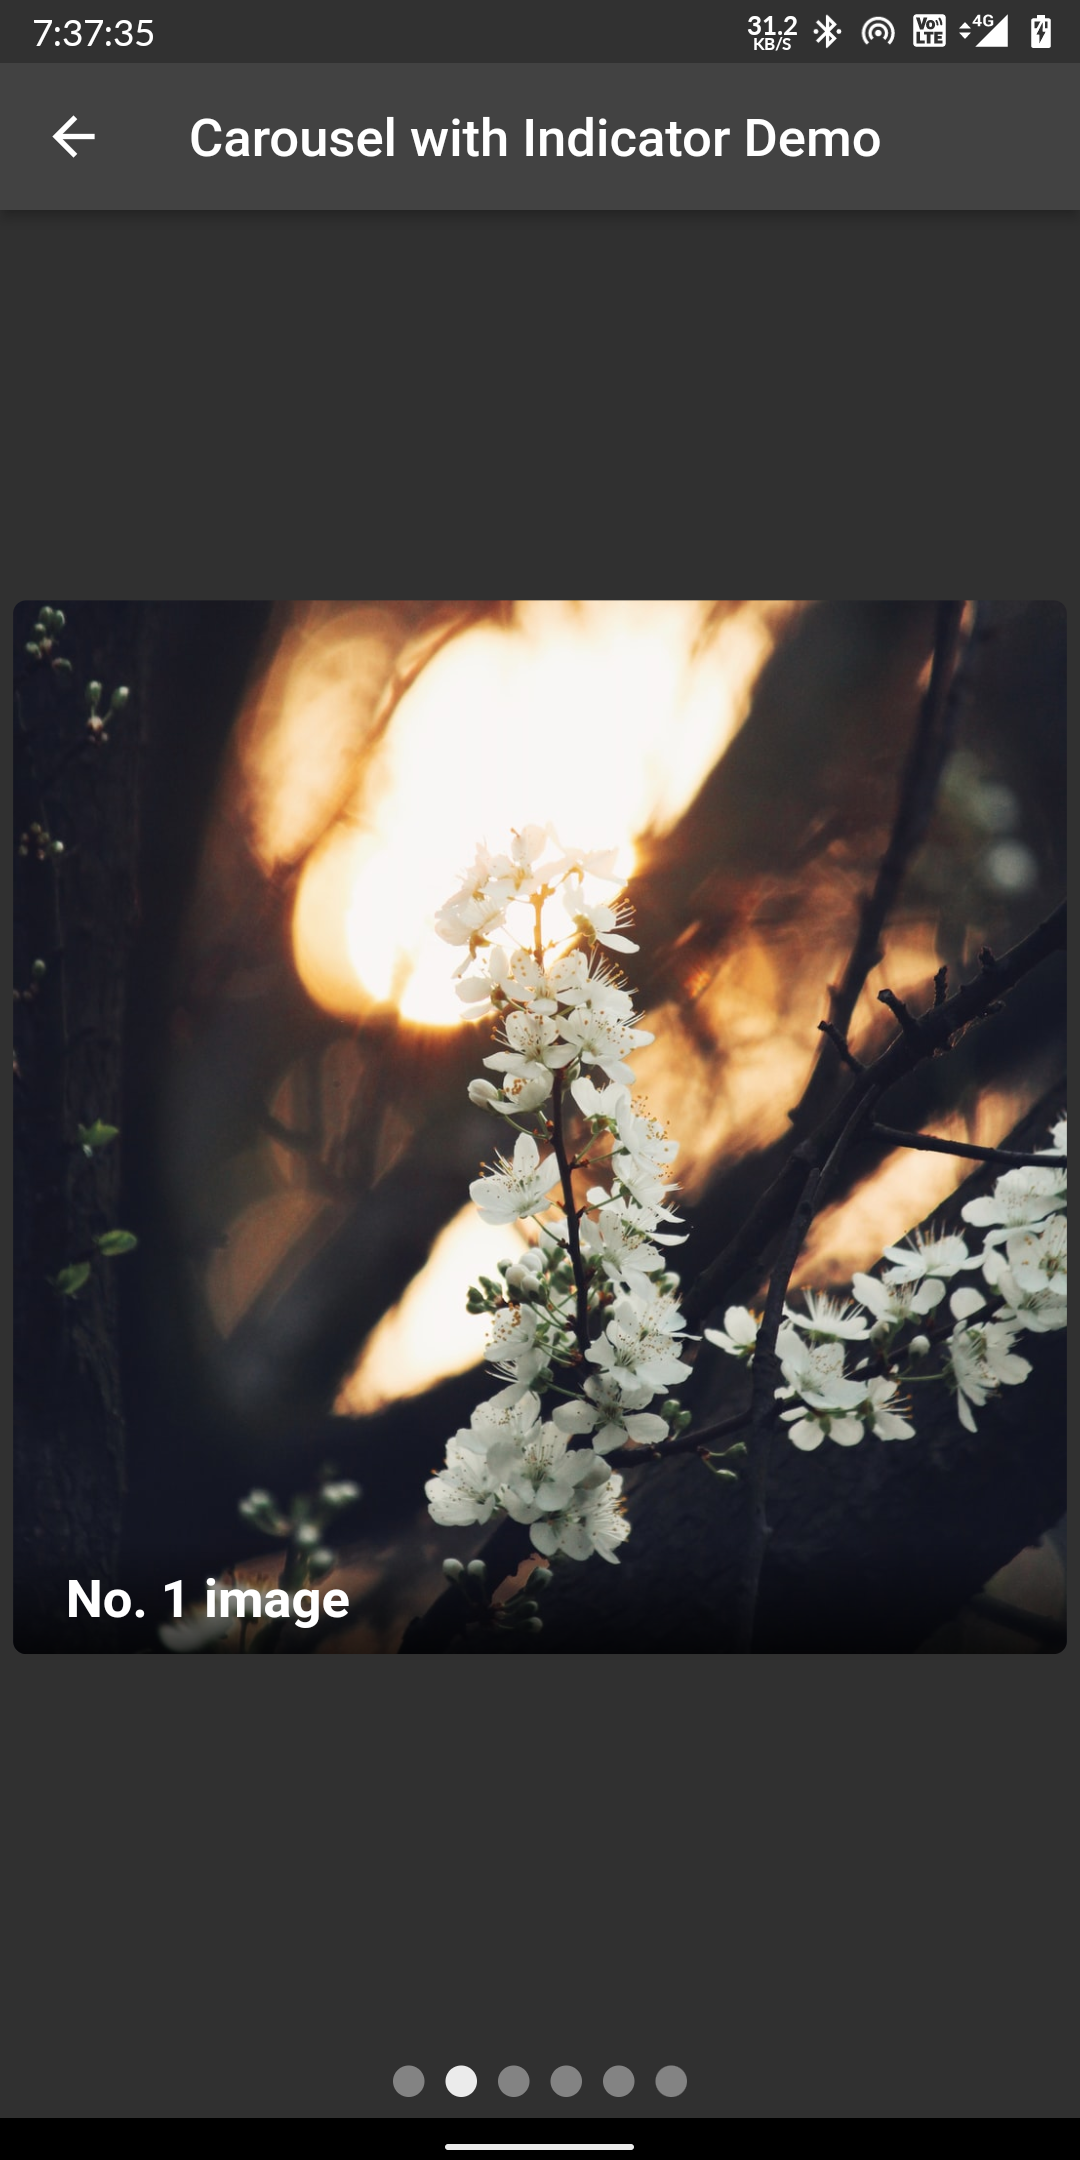
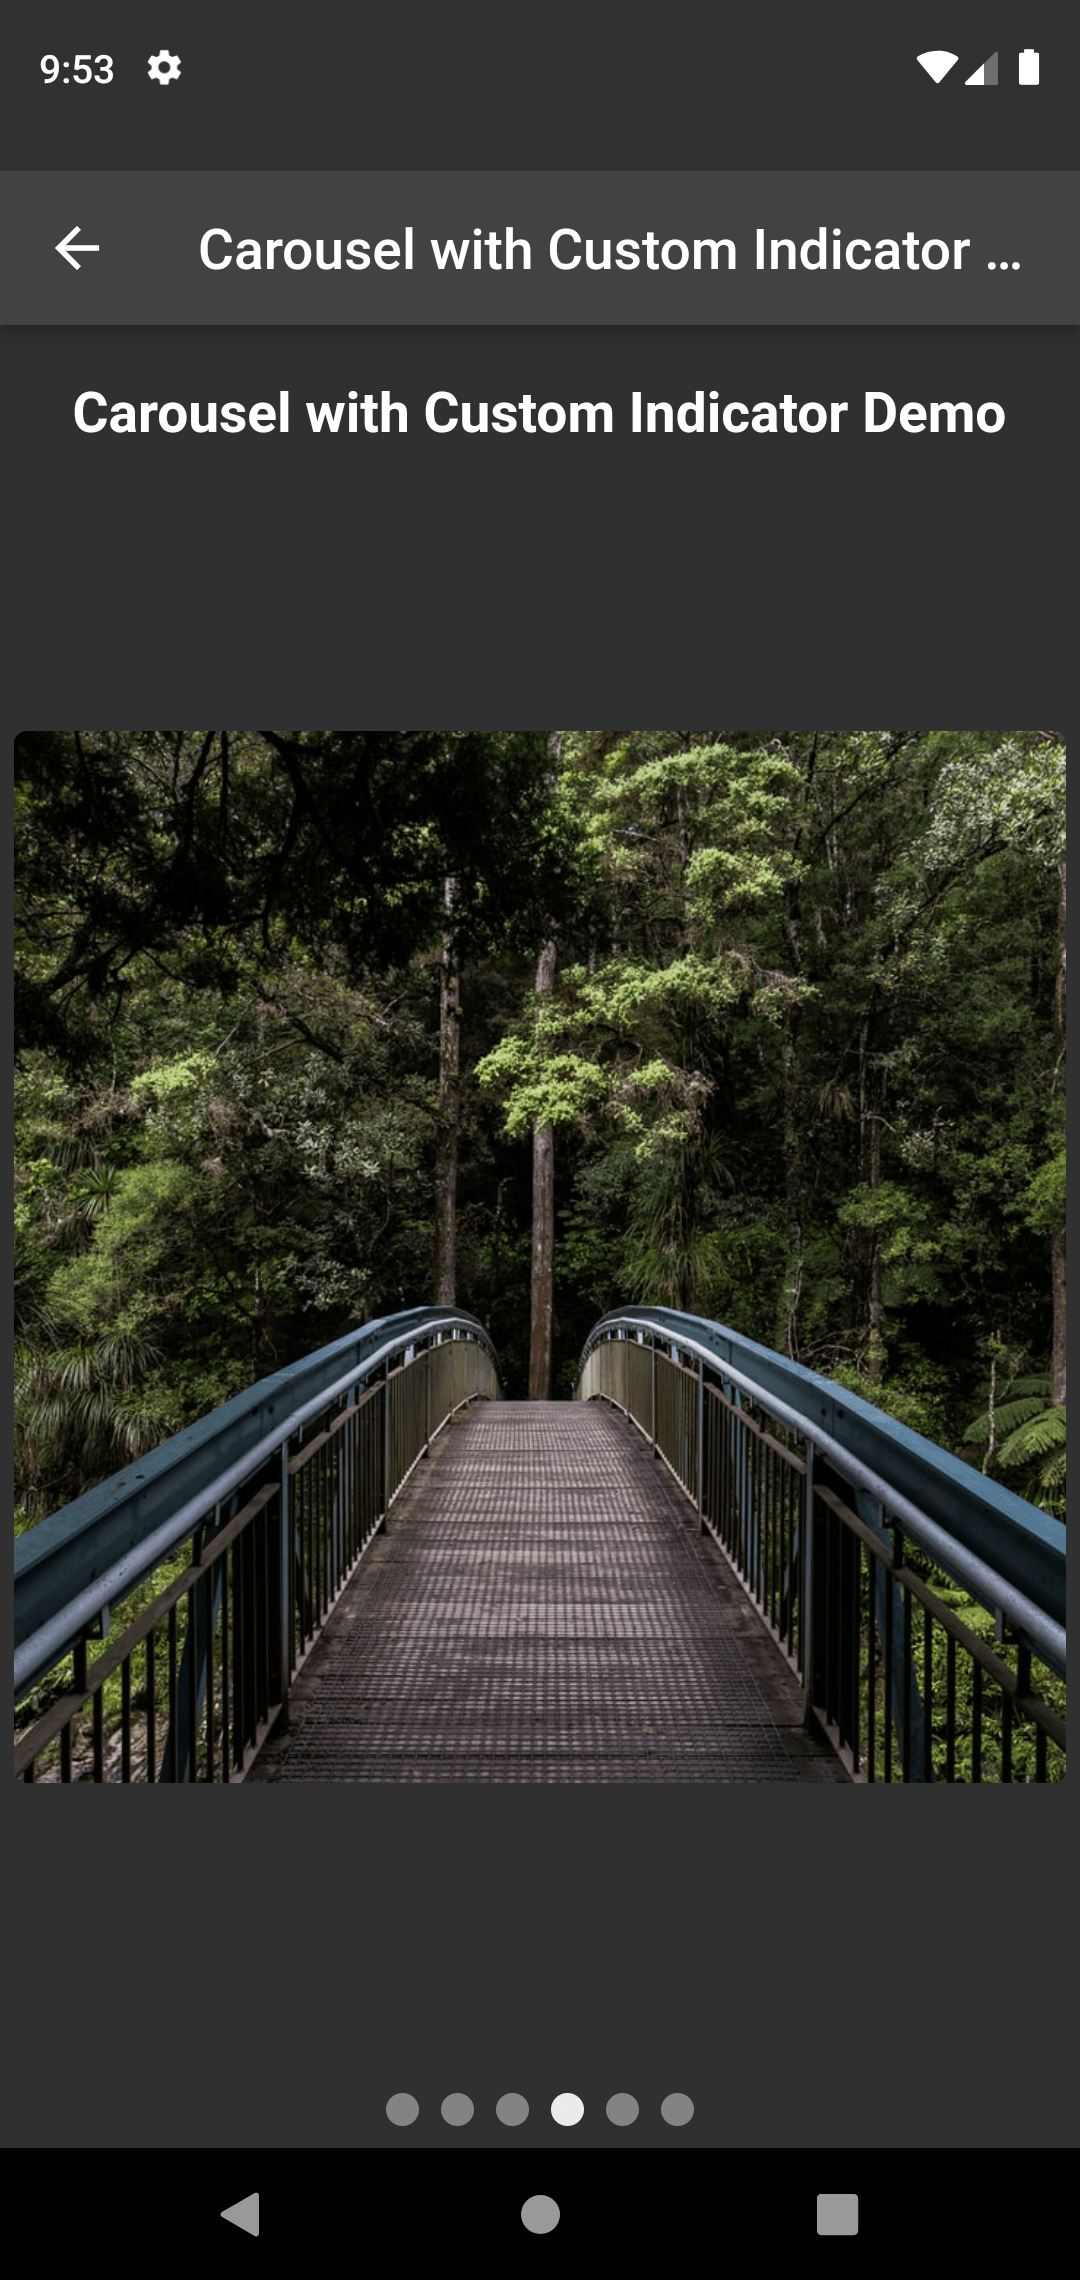
updated to version 0.1.1

diff --git a/example/lib/main.dart b/example/lib/main.dart
@@ -85,7 +85,7 @@ class CarouselDemoHome extends StatelessWidget {
           DemoItem('Enlarge Strategy Demo', '/enlarge'),
           DemoItem('Manually Controlled Slider', '/manual'),
           DemoItem('Fullscreen Carousel Slider', '/fullscreen'),
-          DemoItem('Carousel with Indicator Demo', '/indicator'),
+          DemoItem('Carousel with Custom Indicator Demo', '/indicator'),
           DemoItem('Keep PageView Position Demo', '/position'),
           DemoItem('Multiple Item in One Screen Demo', '/multiple'),
         ],
@@ -121,7 +121,7 @@ class ComplicatedImageDemo extends StatelessWidget {
             aspectRatio: 1.0,
             enlargeCenterPage: true,
             showIndicator: true,
-            slideIndicator: CircularSlideIndicator(),
+            slideIndicator: SequentialFillIndicator(),
           ),
           items: imageSliders,
         ),
@@ -140,10 +140,12 @@ class EnlargeStrategyDemo extends StatelessWidget {
       body: Center(
         child: FlutterCarousel(
           options: CarouselOptions(
-            autoPlay: true,
             aspectRatio: 2.0,
             enlargeCenterPage: true,
             enlargeStrategy: CenterPageEnlargeStrategy.height,
+            showIndicator: true,
+            autoPlay: true,
+            slideIndicator: CircularWaveSlideIndicator(),
           ),
           items: imageSliders,
         ),
@@ -179,7 +181,13 @@ class _ManuallyControlledSliderState extends State<ManuallyControlledSlider> {
               const SizedBox(height: 16.0),
               FlutterCarousel(
                 items: imageSliders,
-                options: CarouselOptions(enlargeCenterPage: true, height: 200),
+                options: CarouselOptions(
+                  enlargeCenterPage: true,
+                  height: 200,
+                  showIndicator: true,
+                  autoPlay: true,
+                  slideIndicator: CircularWaveSlideIndicator(),
+                ),
                 carouselController: _controller,
               ),
               Column(
@@ -241,7 +249,7 @@ class FullscreenSliderDemo extends StatelessWidget {
               enlargeCenterPage: false,
               showIndicator: true,
               autoPlay: true,
-              slideIndicator: CircularSlideIndicator(),
+              slideIndicator: CircularWaveSlideIndicator(),
               // autoPlay: false,
             ),
             items: imgList
@@ -276,8 +284,16 @@ class _CarouselWithIndicatorState extends State<CarouselWithIndicatorDemo> {
   @override
   Widget build(BuildContext context) {
     return Scaffold(
-      appBar: AppBar(title: const Text('Carousel with Indicator Demo')),
+      appBar: AppBar(title: const Text('Carousel with Custom Indicator Demo')),
       body: Column(children: [
+        const SizedBox(height: 20.0),
+        const Text(
+          'Carousel with Custom Indicator Demo',
+          style: TextStyle(
+            fontSize: 20.0,
+            fontWeight: FontWeight.bold,
+          ),
+        ),
         Expanded(
           child: FlutterCarousel(
             items: imageSliders,
@@ -332,6 +348,9 @@ class KeepPageViewPositionDemo extends StatelessWidget {
               aspectRatio: 1.0,
               viewportFraction: 1.0,
               enlargeCenterPage: false,
+              showIndicator: true,
+              autoPlay: true,
+              slideIndicator: CircularStaticIndicator(),
               pageViewKey: const PageStorageKey<String>('carousel_slider'),
             ),
             items: imageSliders,
@@ -364,6 +383,9 @@ class MultipleItemDemo extends StatelessWidget {
             aspectRatio: 2.0,
             enlargeCenterPage: false,
             viewportFraction: 1,
+            showIndicator: true,
+            autoPlay: true,
+            slideIndicator: CircularStaticIndicator(),
           ),
           itemCount: (imgList.length / 2).round(),
           itemBuilder: (context, index, realIdx) {

diff --git a/lib/flutter_carousel_widget.dart b/lib/flutter_carousel_widget.dart
@@ -28,34 +28,44 @@ class FlutterCarousel extends StatefulWidget {
 
   final int? itemCount;
 
-  const FlutterCarousel({
+  /// A [MapController], used to control the map.
+  final CarouselControllerImpl _carouselController;
+
+  FlutterCarousel({
     required this.items,
     required this.options,
     carouselController,
     Key? key,
   })  : itemBuilder = null,
         itemCount = items != null ? items.length : 0,
+        _carouselController = carouselController ??
+            CarouselController() as CarouselControllerImpl,
         super(key: key);
 
   /// The on demand item builder constructor
-  const FlutterCarousel.builder(
+  FlutterCarousel.builder(
       {required this.itemCount,
       required this.itemBuilder,
       required this.options,
       carouselController,
       Key? key})
       : items = null,
+        _carouselController = carouselController ??
+            CarouselController() as CarouselControllerImpl,
         super(key: key);
 
   @override
-  FlutterCarouselState createState() => FlutterCarouselState();
+  FlutterCarouselState createState() =>
+      FlutterCarouselState(_carouselController);
 }
 
 class FlutterCarouselState extends State<FlutterCarousel>
     with TickerProviderStateMixin {
-  final CarouselControllerImpl _carouselController =
-      CarouselController() as CarouselControllerImpl;
+  final CarouselControllerImpl carouselController;
+
   Timer? _timer;
+
+  FlutterCarouselState(this.carouselController);
 
   CarouselOptions get options => widget.options;
 
@@ -92,19 +102,22 @@ class FlutterCarouselState extends State<FlutterCarousel>
   @override
   void initState() {
     super.initState();
+
     _carouselState =
         CarouselState(options, clearTimer, resumeTimer, changeMode);
 
     _currentPage = widget.options.initialPage;
+
     _carouselState!.itemCount = widget.itemCount;
-    _carouselController.state = _carouselState;
+    carouselController.state = _carouselState;
     _carouselState!.initialPage = widget.options.initialPage;
     _carouselState!.realPage = options.enableInfiniteScroll
         ? _carouselState!.realPage + _carouselState!.initialPage
         : _carouselState!.initialPage;
-    handleAutoPlay();
 
     _initPageController();
+
+    handleAutoPlay();
   }
 
   void _initPageController() {

diff --git a/README.md b/README.md
@@ -1,6 +1,6 @@
 # flutter_carousel_widget
 
-A customizable carousel slider widget in Flutter which supports inifinte scrolling, auto scrolling, custom child widget, custom animations and pre-built indicators.
+A customizable carousel slider widget in Flutter which supports infinite scrolling, auto scrolling, custom child widget, custom animations and pre-built indicators.
 
 [![pub package](https://img.shields.io/pub/v/flutter_carousel_widget.svg)][pub]
 
@@ -21,7 +21,7 @@ Add `flutter_carousel_widget` as a dependency in your `pubspec.yaml` file:
 
 ```dart
 dependencies:
-flutter_carousel_widget: ^0.1.0
+flutter_carousel_widget: ^0.1.1
 ```
 
 And import it:
@@ -169,7 +169,7 @@ Manually Controlled Flutter Carousel:
 
 ![simple](screenshots/manually.png)
 
-Flutter Carousel with indicator:
+Flutter Carousel with custom indicator:
 
 ![simple](screenshots/indicator.png)
 

diff --git a/CHANGELOG.md b/CHANGELOG.md
@@ -1,5 +1,10 @@
-#Changelog
+# Changelog
 
+
+## 0.1.1
+
+* Bug fixes.
+* Documentation updated.
 
 ## 0.1.0
 
